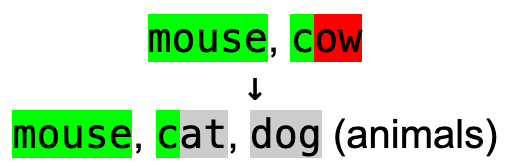
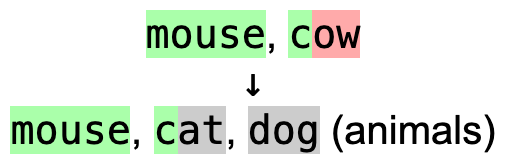
Update for Anki 2.1.56

diff --git a/__init__.py b/__init__.py
@@ -4,6 +4,7 @@ import unicodedata as ucd
 import re
 
 from aqt.reviewer import Reviewer
+from anki.collection import Collection
 
 junk_re = re.compile(r"[-\s]")
 prefix_limit = 3
@@ -64,7 +65,7 @@ def adj_dist(a, b):
     b = b[prefix:]
 
     # Return distance adjusted for prefix length
-    return dist(a, b) + prefix_limit - min(prefix, prefix_limit)
+    return dist(a, b) + (prefix_limit - min(prefix, prefix_limit))
 
 class Arranger:
     def __init__(self, given, correct):
@@ -333,7 +334,7 @@ def renderDiffs(given, correct, givenElems, correctElems):
     # Return whether there was any error or not
     return hasError
 
-def correct(self, given: str, correct: str, **kwargs) -> str:
+def compare_answer(self, correct: str, given: str) -> str:
     """Display the corrections for a type-in answer."""
 
     # Normalize using NFC to make comparison consistent
@@ -408,4 +409,11 @@ def correct(self, given: str, correct: str, **kwargs) -> str:
 
     return res
 
+def correct(self, given: str, correct: str, **kwargs) -> str:
+    return compare_answer(self, correct, given)
+
+# Up to Anki 2.1.54
 Reviewer.correct = correct
+
+# Anki 2.1.56+ (correction was moved to Rust backend)
+Collection.compare_answer = compare_answer

diff --git a/README.md b/README.md
@@ -4,6 +4,10 @@ Answer Set is an [Anki add-on](https://ankiweb.net/shared/info/1827331674)
 which gives better feedback for "type in the answer" style cards if there are
 multiple correct answers, and improves support for Indic scripts.
 
+Anki 2.1.56 improved the comparison algorithm (the annoying red dashes were
+removed thanks to @dae!), so this add-on may be less necessary for Anki 2.1.56+,
+but it still provides several other useful features.
+
 ## Multiple Answers
 
 If you try to have multiple answers in a "type in the answer" style card in
@@ -78,10 +82,11 @@ But if you type "mouse, cow" for `dog, cat, mouse (animals)`:
 
 ## Implementation Details
 
-This add-on is implemented as a monkey patch replacing only `Reviewer.correct`,
-which is responsible for generating the differences. Since it replaces this
-function, it is not guaranteed to work in future updates. I have tested it in
-Anki 2.1.40 through 2.1.54.
+This add-on is implemented as a monkey patch replacing
+`Collection.compare_answer` (Anki 2.1.56+) or `Reviewer.correct` (up to Anki
+2.1.54), which are responsible for generating the differences. Since it replaces
+these functions, it is not guaranteed to work in future updates. I have tested
+it in Anki 2.1.40 through 2.1.56.
 
 The answer rearranging algorithm uses the
 [Levenshtein Distance](https://en.wikipedia.org/wiki/Levenshtein_distance)
